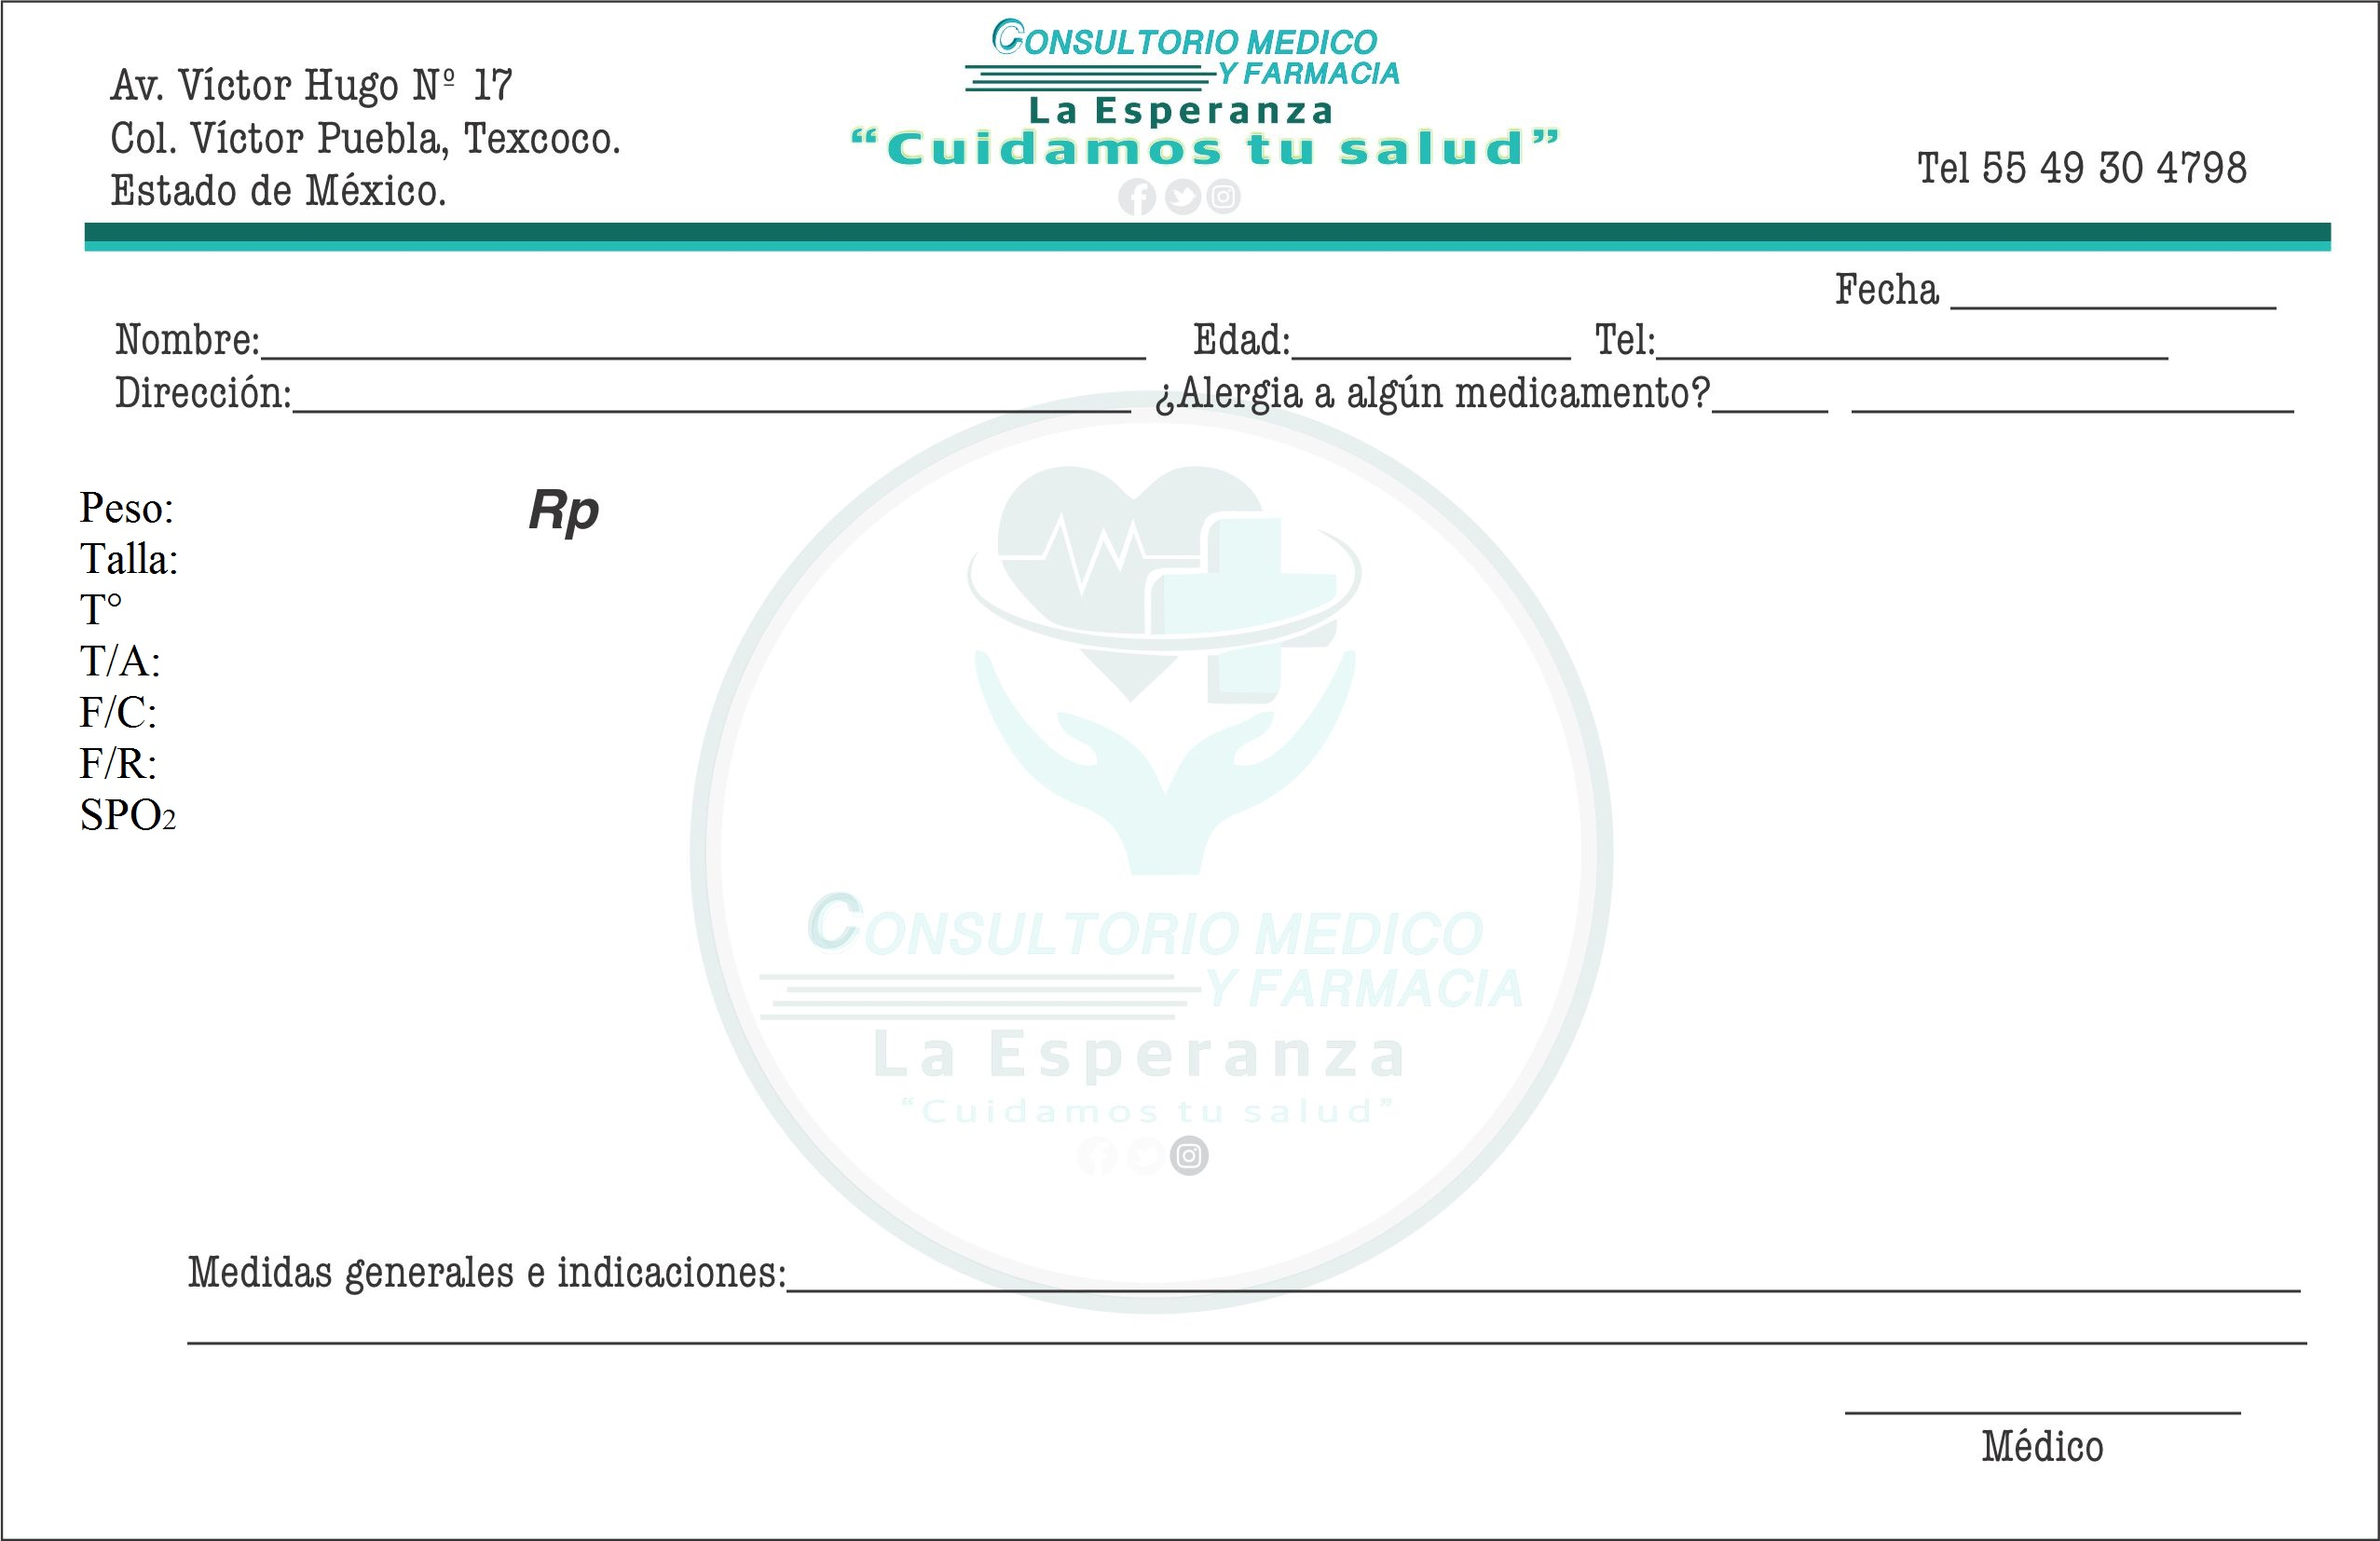
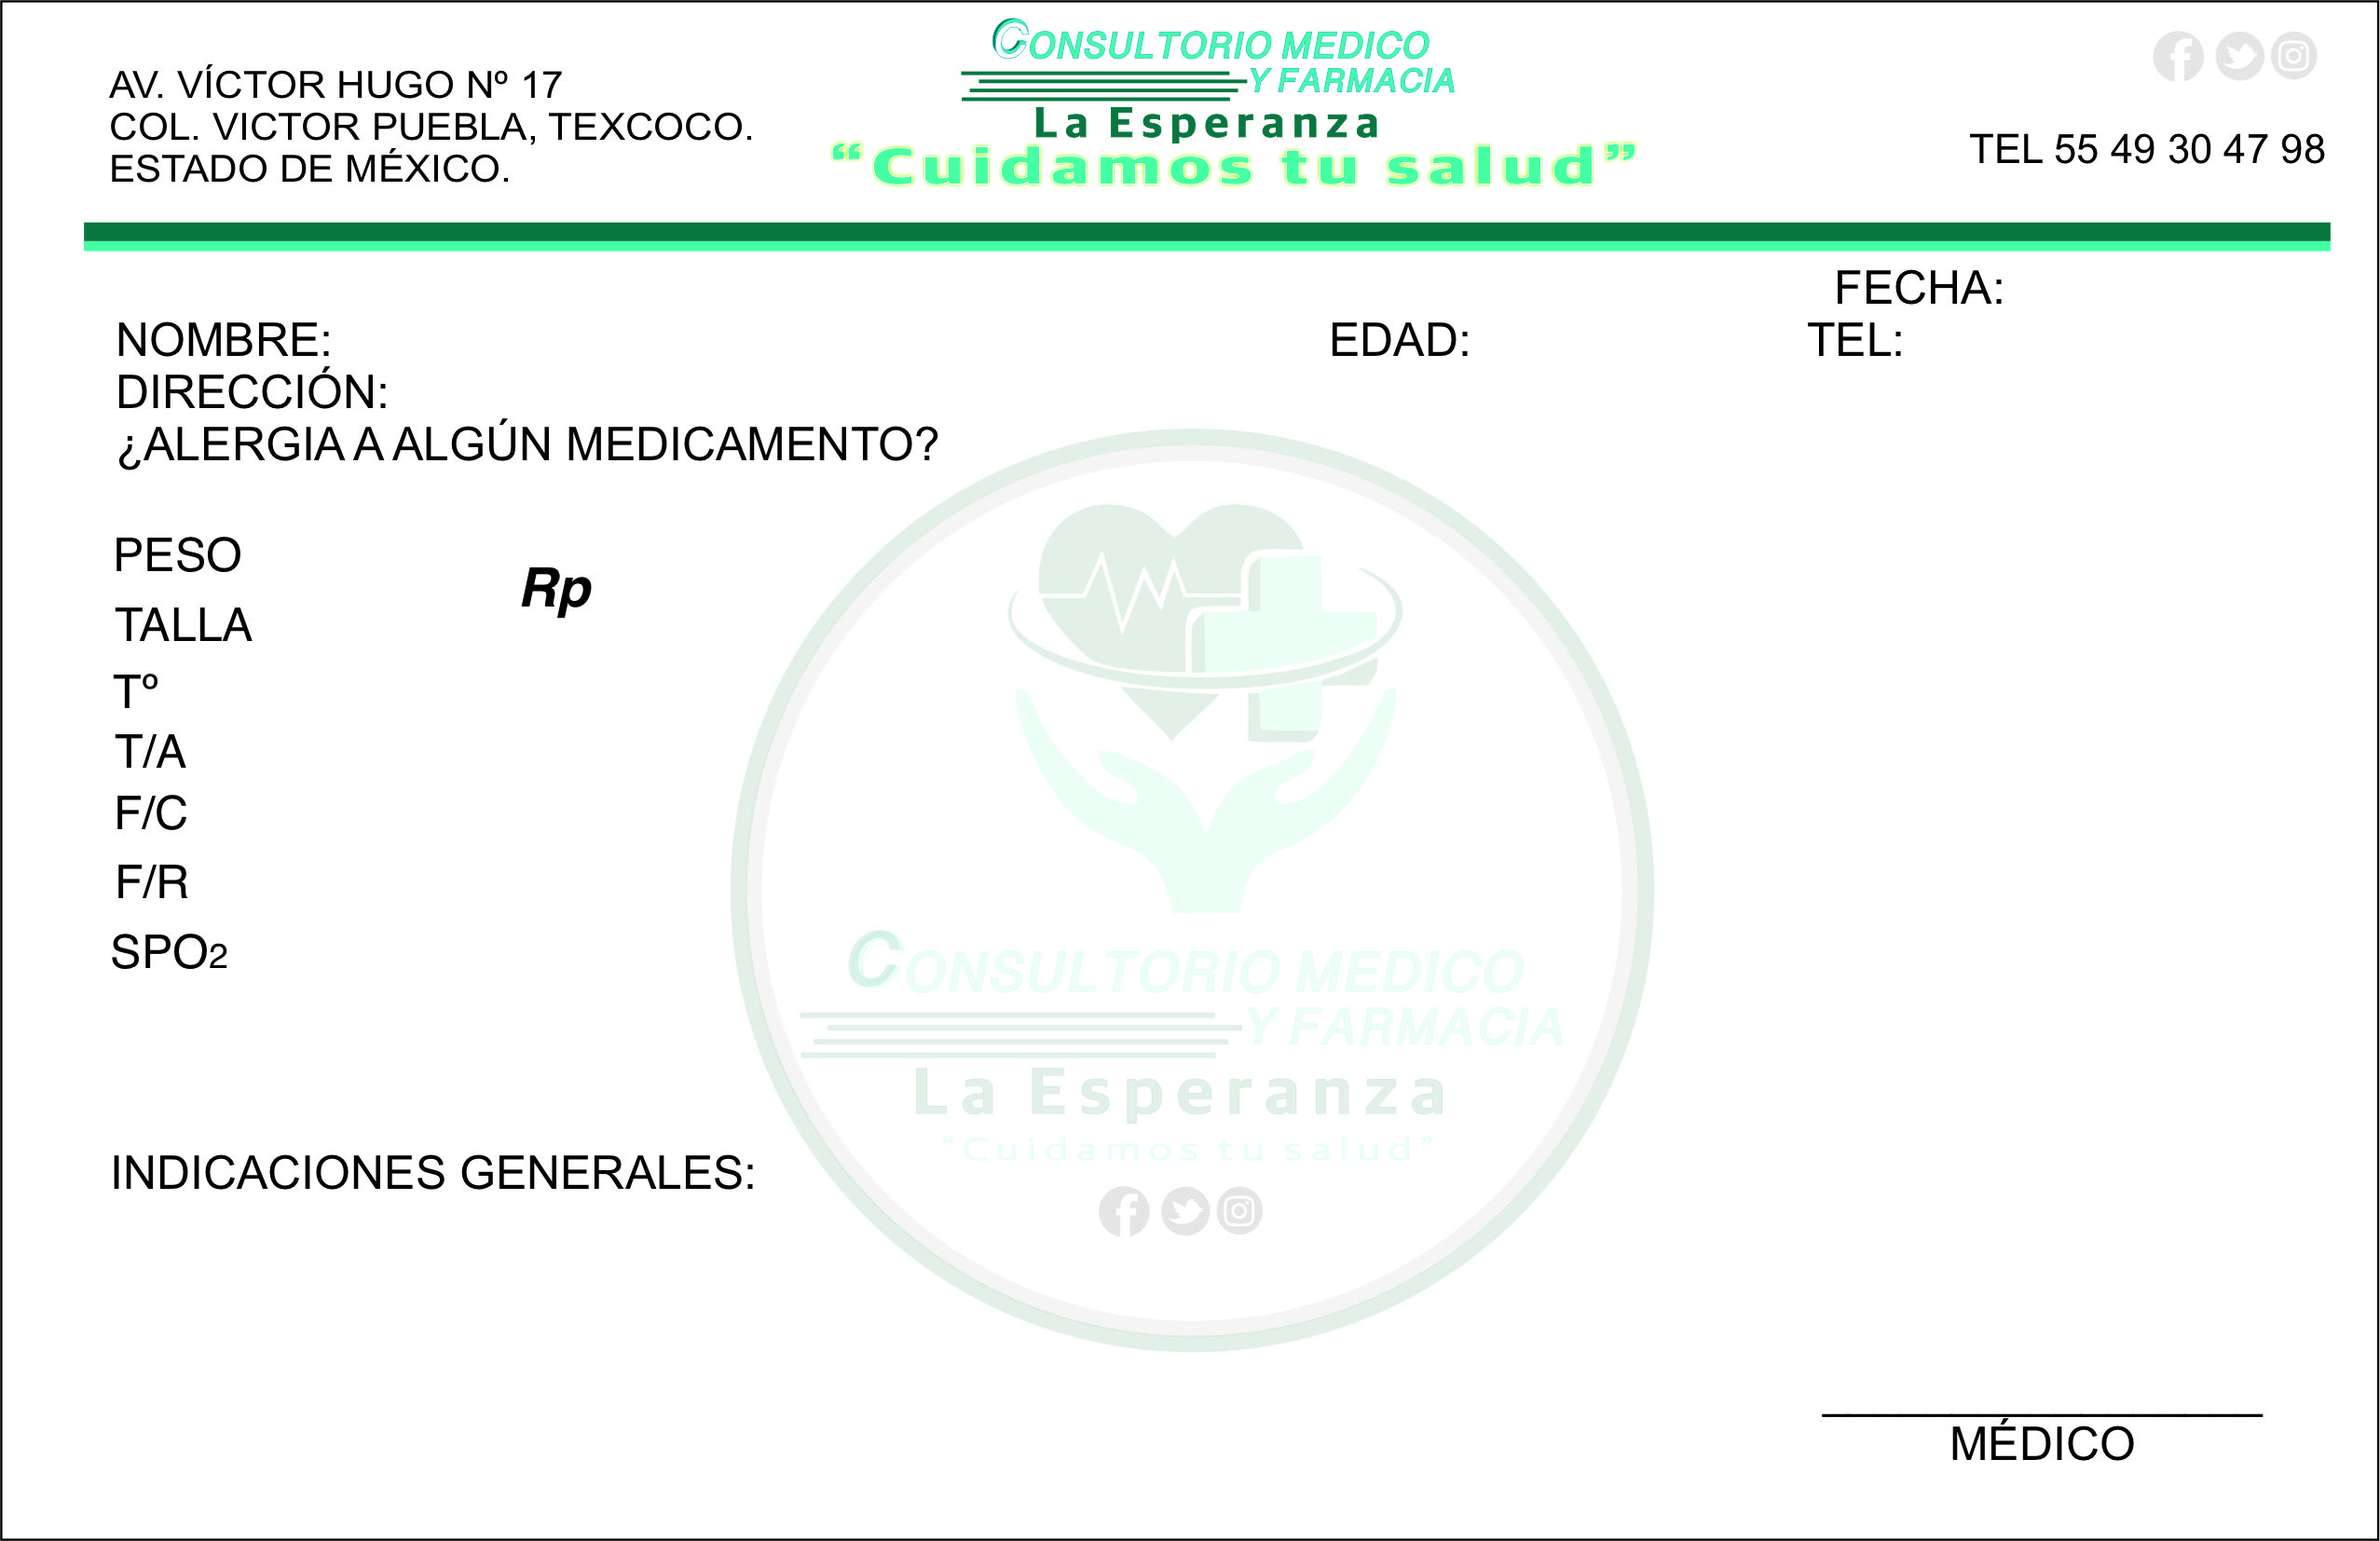
finalizando Componente de GenPdf

diff --git a/src/components/createReceta.tsx b/src/components/createReceta.tsx
@@ -1,6 +1,5 @@
 import jsPDF from "jspdf";
 import { IRecetaPaciente } from "../utils/interfaces/IRecetaPaciente";
-import backgroundRecetaComponent from "./backgroundReceta";
 
 type Props = {
   receta: IRecetaPaciente;
@@ -8,12 +7,16 @@ type Props = {
 
 const createReceta = (props: Props) => {
   const { receta } = props;
-  const doc = new jsPDF();
+  const doc = new jsPDF({
+    orientation: "p",
+    unit: "mm",
+    format: "letter",
+  });
 
   const arraytoPrint = (tratamientos: Array<string>) => {
     let tratamientoString: string = "";
-    tratamientos.forEach((tratamiento: string) => {
-      tratamientoString += tratamiento + "\n";
+    tratamientos.forEach((tratamiento: string, index: number) => {
+      tratamientoString += `${index + 1}. ${tratamiento} \n`;
     });
     return tratamientoString;
   };
@@ -30,39 +33,35 @@ const createReceta = (props: Props) => {
     return tratamientoString;
   };
 
-  doc.addImage("images/backgroundReceta.jpg", "JPG", 0, 0, 210, 148.5);
+  doc.addImage("images/backgroundReceta.jpg", "JPG", 0, 5, 216, 148.5);
 
-  doc.setFontSize(8);
+  doc.setFontSize(12);
   doc.setFont("arial");
-  doc.text(receta.direccion, 27, 39, { align: "left" });
+  doc.text(receta.direccion, 37, 44, { align: "left" });
 
   doc.setFontSize(10);
   doc.setFont("arial");
-  doc.text(receta.fecha, 172, 29, { align: "left" });
+  doc.text(receta.fecha, 183, 34, { align: "left" });
 
   doc.setFontSize(12);
   doc.setFont("arial");
-  doc.text(arraytoPrintPerComa(receta.medicamentos), 153, 39, {
+  doc.text(receta.nombre, 31, 39, { align: "left" });
+  doc.text(receta.edad.toString() + " años", 135, 39, { align: "left" });
+  doc.text(receta.telefono, 175, 39, { align: "left" });
+
+  doc.text(receta.peso, 23.5, 59.8, { align: "left" });
+  doc.text(receta.talla, 24, 66.5, { align: "left" });
+  doc.text(receta.temperatura + "°", 15.5, 73, { align: "left" });
+  doc.text(receta.ta, 18, 78.7, { align: "left" });
+  doc.text(receta.fc, 18, 84.6, { align: "left" });
+  doc.text(receta.fr, 19, 91.5, { align: "left" });
+  doc.text(receta.so2, 22, 98, { align: "left" });
+  doc.text(arraytoPrintPerComa(receta.medicamentos), 87, 49, {
     align: "left",
   });
+  doc.text(arraytoPrint(receta.tratamientos), 35, 70, { align: "left" });
+  doc.text(receta.recomendaciones, 13, 125, { align: "left" });
 
-  doc.setFontSize(14);
-  doc.setFont("arial");
-  doc.text(arraytoPrint(receta.tratamientos), 30, 57, { align: "left" });
-
-  doc.setFontSize(12);
-  doc.setFont("arial", "bold");
-  doc.text(receta.nombre, 23.5, 34, { align: "left" });
-  doc.text(receta.edad.toString() + " años", 115, 34, { align: "left" });
-  doc.text(receta.telefono, 147, 34, { align: "left" });
-
-  doc.text(receta.peso, 16, 50, { align: "left" });
-  doc.text(receta.talla, 16, 55, { align: "left" });
-  doc.text(receta.temperatura, 13, 60, { align: "left" });
-  doc.text(receta.ta, 15, 65, { align: "left" });
-  doc.text(receta.fc, 15, 70, { align: "left" });
-  doc.text(receta.fr, 15, 75, { align: "left" });
-  doc.text(receta.so2, 17, 80, { align: "left" });
 
   doc.save(`${receta.nombre}_receta.pdf`);
 };

diff --git a/src/pages/FormularioRecetaPage.tsx b/src/pages/FormularioRecetaPage.tsx
@@ -21,6 +21,7 @@ const FormularioRecetaPage = () => {
     so2: "",
     tratamientos: [],
     fecha: DateHelpers.getCurrentDateStringLarge(),
+    recomendaciones: "",
   });
 
   const handleChange = (event: React.ChangeEvent<HTMLInputElement>) => {
@@ -38,10 +39,10 @@ const FormularioRecetaPage = () => {
     if (input.value) {
       setReceta({
         ...receta,
-        medicamentos: [...receta.medicamentos, (input.value).toUpperCase()],
+        medicamentos: [...receta.medicamentos, input.value.toUpperCase()],
       });
-      li.classList.add("list-group-item");
-      li.appendChild(document.createTextNode((input.value).toUpperCase()));
+      li.classList.add("list-group-item", "bg-light");
+      li.appendChild(document.createTextNode(input.value.toUpperCase()));
       ul.appendChild(li);
       input.value = "";
       input.focus();
@@ -60,11 +61,16 @@ const FormularioRecetaPage = () => {
     if (tratamientoText.value) {
       setReceta({
         ...receta,
-        tratamientos: [...receta.tratamientos, (tratamientoText.value).toUpperCase()],
+        tratamientos: [
+          ...receta.tratamientos,
+          tratamientoText.value.toUpperCase(),
+        ],
       });
 
-      li.classList.add("list-group-item");
-      li.appendChild(document.createTextNode((tratamientoText.value).toUpperCase()));
+      li.classList.add("list-group-item", "bg-light");
+      li.appendChild(
+        document.createTextNode(tratamientoText.value.toUpperCase())
+      );
       tratamientosList.appendChild(li);
       tratamientoText.value = "";
       tratamientoText.focus();
@@ -298,6 +304,7 @@ const FormularioRecetaPage = () => {
               <div className="input-group mb-3">
                 <input
                   id="addTratamiento"
+                  name="tratamiento"
                   type="text"
                   className="form-control"
                   placeholder="Nombre del medicamento"
@@ -322,7 +329,34 @@ const FormularioRecetaPage = () => {
           </Row>
 
           <Row>
+            <Col className="col-12">
+              <Form.Group className="mb-3">
+                <Form.Label>Indicaciones generales</Form.Label>
+                <Form.Control
+                  as="textarea"
+                  rows={5}
+                  placeholder="Recomendaciones generales"
+                  id="recomendaciones"
+                  name="recomendaciones"
+                  value={receta.recomendaciones}
+                  onChange={handleChange}
+                />
+              </Form.Group>
+            </Col>
+          </Row>
+
+          <Row>
             <Col className="col-12 text-center mb-4 mt-4">
+              <Button
+                variant="danger"
+                onClick={() => {
+                  window.location.href = "/";
+                }}
+                className="m-3"
+              >
+                Ir al inicio
+              </Button>
+
               <Button variant="primary" type="submit">
                 Generar receta
               </Button>

diff --git a/src/utils/interfaces/IRecetaPaciente.ts b/src/utils/interfaces/IRecetaPaciente.ts
@@ -13,4 +13,5 @@ export interface IRecetaPaciente {
   so2: string;
   tratamientos: Array<string>;
   fecha: string;
+  recomendaciones: string;
 }
